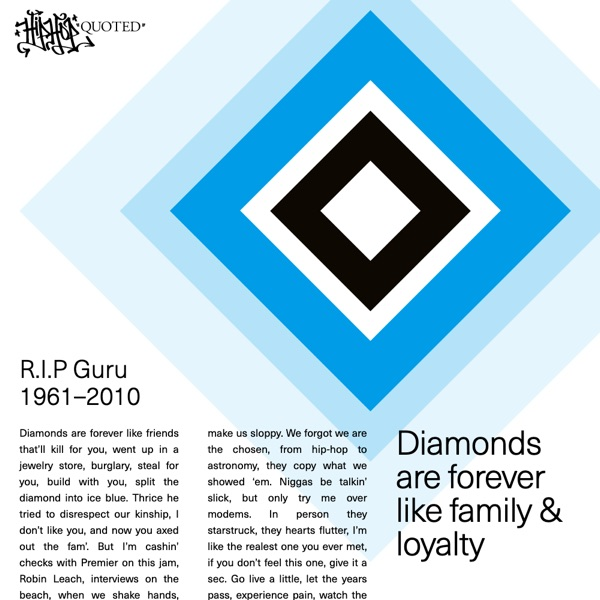
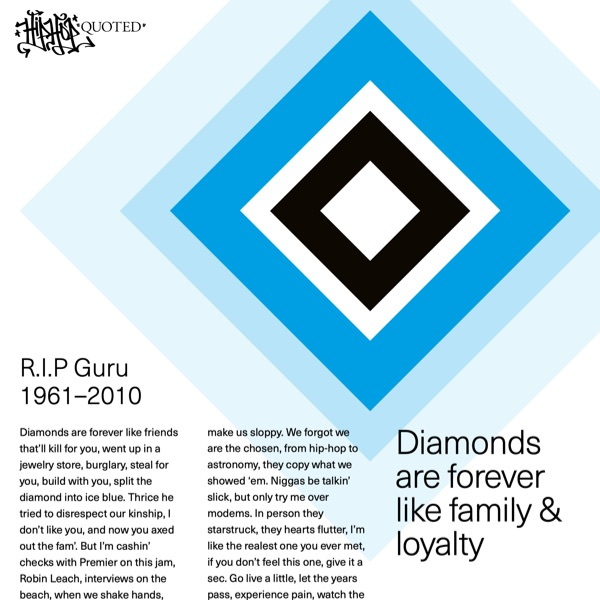
Update screenshot

diff --git a/source/stylesheets/mf-doom-figaro.css.scss b/source/stylesheets/mf-doom-figaro.css.scss
@@ -7,7 +7,7 @@
   --color-white: #ffffff;
 }
 
-// @import url("//hello.myfonts.net/count/3cfc4d");
+@import url("//hello.myfonts.net/count/3cfc4d");
   
 @font-face {
   font-family: 'MilkaBrittleTT-Regular';
